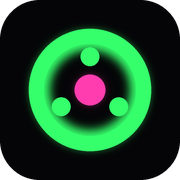
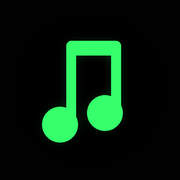
Add files via upload

diff --git a/index.html b/index.html
@@ -537,6 +537,23 @@
 
   /* ---------- neon accents ---------- */
   .brand h1 .dot{box-shadow:0 0 14px 2px var(--amber);}
+  /* Install-status badge (v3.7.8): a quiet, always-visible confirmation of
+     whether the running instance can actually get the background-audio
+     treatment an installed app gets, rather than that being invisible
+     until someone goes digging in the debug log. */
+  .install-badge{
+    width:34px;height:34px;border-radius:50%;flex:0 0 auto;
+    display:flex;align-items:center;justify-content:center;
+  }
+  .install-badge svg{width:20px;height:20px;}
+  .install-badge.ok{
+    color:var(--ok);background:rgba(87,245,160,.14);
+    box-shadow:0 0 12px 1px rgba(87,245,160,.45);
+  }
+  .install-badge.bad{
+    color:var(--danger);background:rgba(255,92,122,.14);
+    box-shadow:0 0 12px 1px rgba(255,92,122,.45);
+  }
   nav button.active svg{filter:drop-shadow(0 0 7px rgba(var(--accent-rgb),.7));}
   .seek-fill{box-shadow:0 0 10px rgba(var(--accent-rgb),.6);}
   .mini-prog span{box-shadow:0 0 8px rgba(var(--accent-rgb),.6);}
@@ -628,6 +645,8 @@
   @media (orientation:landscape) and (max-height:900px) and (max-aspect-ratio: 3/2){
     header{padding:10px 20px 8px;gap:10px;}
     .brand h1{font-size:28px;}
+    .install-badge{width:24px;height:24px;}
+    .install-badge svg{width:15px;height:15px;}
     .icon-btn{width:46px;height:46px;}
     .icon-btn svg{width:22px;height:22px;}
     .search{height:48px;}
@@ -900,7 +919,7 @@
 <div id="app">
   <header>
     <div class="brand">
-      <h1><span class="dot"></span>Reel</h1>
+      <h1><span class="dot"></span>Reel<span class="install-badge" id="installBadge" title=""></span></h1>
       <div class="hdr-actions">
         <button class="icon-btn" id="btnSettings" title="Settings" aria-label="Settings">
           <svg viewBox="0 0 24 24" fill="none" stroke="currentColor" stroke-width="2" stroke-linecap="round" stroke-linejoin="round"><circle cx="12" cy="12" r="3"/><path d="M19.4 15a1.65 1.65 0 0 0 .33 1.82l.06.06a2 2 0 1 1-2.83 2.83l-.06-.06a1.65 1.65 0 0 0-1.82-.33 1.65 1.65 0 0 0-1 1.51V21a2 2 0 0 1-4 0v-.09A1.65 1.65 0 0 0 9 19.4a1.65 1.65 0 0 0-1.82.33l-.06.06a2 2 0 1 1-2.83-2.83l.06-.06a1.65 1.65 0 0 0 .33-1.82 1.65 1.65 0 0 0-1.51-1H3a2 2 0 0 1 0-4h.09A1.65 1.65 0 0 0 4.6 9a1.65 1.65 0 0 0-.33-1.82l-.06-.06a2 2 0 1 1 2.83-2.83l.06.06a1.65 1.65 0 0 0 1.82.33H9a1.65 1.65 0 0 0 1-1.51V3a2 2 0 0 1 4 0v.09a1.65 1.65 0 0 0 1 1.51 1.65 1.65 0 0 0 1.82-.33l.06-.06a2 2 0 1 1 2.83 2.83l-.06.06a1.65 1.65 0 0 0-.33 1.82V9a1.65 1.65 0 0 0 1.51 1H21a2 2 0 0 1 0 4h-.09a1.65 1.65 0 0 0-1.51 1z"/></svg>
@@ -1350,8 +1369,15 @@ const state = {
   routeDiag: false,         // when true, measure AudioContext.outputLatency to detect real route changes
 };
 /* app metadata + changelog (newest first) */
-const APP_VERSION = '3.7.7';
+const APP_VERSION = '3.7.8';
 const CHANGELOG = [
+  { v:'3.7.8', date:'Sep 15, 2026', items:[
+    'Found why installing kept falling back to a shortcut: Chrome\u2019s menu says "Install and create shortcut" \u2192 "Install app" specifically when it CANNOT build a real installed app (a WebAPK) and is falling back to a bookmark that still runs as a plain browser tab \u2014 when Chrome can build a real one, the option just says "Install", with no "shortcut" wording at all. Loading the app via GitHub\u2019s raw file viewer doesn\u2019t serve the manifest/icons/service-worker at reachable paths, so Chrome\u2019s installability check was always failing and silently taking the fallback path. This isn\u2019t fixable from inside the HTML file \u2014 it requires actually serving the app from real web hosting (e.g. GitHub Pages) with all five files (index.html, manifest.json, sw.js, icon-192.png, icon-512.png) alongside each other.',
+    'New: a status badge next to the "Reel" title \u2014 a green check when running installed as a real app, a red X when running as a plain browser tab. This used to only be visible by digging into the debug log after the fact; now it\u2019s always on screen, since whether background audio can work at all hinges entirely on this one fact.',
+    'New: real icon-192.png and icon-512.png, matching the app\u2019s own neon-green music-note motif used throughout the UI. Their absence was one of the concrete reasons the installability check couldn\u2019t pass before.',
+    'Log buffer reduced back to 500 entries (from 2500). The larger buffer was sized for the fully-instrumented, repeatedly-backgrounded sessions used to hunt the root cause; that cause is confirmed now, so ordinary use doesn\u2019t need that much headroom.',
+    'Internal: display-mode detection (installed vs. browser tab) now lives in exactly one function, read by both the debug-log line and the new header badge, rather than two separate implementations that could quietly drift apart \u2014 the same class of bug the log Copy button had in v3.7.7.',
+  ]},
   { v:'3.7.7', date:'Sep 14, 2026', items:[
     'Fixed Copy and Save producing a different log than the one on screen. They were built from a separate, independently-written function (Log.text()) that walked entries oldest-first with a full date on every line, while the screen shows newest-first with the date only in a separator \u2014 same entries, two unrelated presentations. Copy and Save now render from the exact same ordering/grouping function the screen uses, so there is no longer a second implementation that can drift out of sync with the first.',
     'The one deliberate addition beyond a literal screen copy: WARN/ERROR lines are distinguished on screen only by text colour, which a plain-text copy can\u2019t carry \u2014 so the level is spelled out on each line in the copied/saved text instead of silently losing that signal the moment it leaves the app.',
@@ -1747,11 +1773,12 @@ const DB = (() => {
         slips through uncaught.
 ============================================================================ */
 const Log = (()=>{
-  // Raised from 800 in v3.7.5: the background/lifecycle forensics below and
-  // the verbose event trace produce far more lines, and a session where the
-  // app is repeatedly backgrounded is exactly the one that must not have its
-  // oldest evidence rolled out of the buffer before it can be read.
-  const MAX = 2500;
+  // v3.7.8: reduced back down from 2500. The 2500 ceiling was sized for the
+  // fully-instrumented, repeatedly-backgrounded sessions used while hunting
+  // the root cause; that's confirmed now (Android suspending a non-installed
+  // tab's audio in the background), so the buffer no longer needs to be
+  // that generous for ordinary use.
+  const MAX = 500;
   let buf = [];
   let saveTimer = null;
   function push(level, msg){
@@ -4139,19 +4166,67 @@ function wireLifecycleForensics(){
    ordinary Chrome tab and gets Chrome's full background throttling; a properly
    installed PWA (WebAPK) gets meaningfully more lenient treatment. This has
    been a suspected factor in the background-pausing reports since v3.6.0, and
-   until now there was no way to confirm which mode was actually in use. */
-function logInstallContext(){
-  let mode = 'browser tab (NOT installed as an app)';
+   until now there was no way to confirm which mode was actually in use.
+
+   v3.7.8: this used to be the only place display mode was computed. Now the
+   header badge needs the same answer, so the detection itself lives in ONE
+   function (detectDisplayMode) and both the log line and the badge just
+   read its result — deliberately not two independent implementations that
+   could quietly drift apart, which is exactly what happened to the log
+   Copy button in v3.7.7. */
+function detectDisplayMode(){
   try{
-    if(window.matchMedia('(display-mode: standalone)').matches) mode = 'standalone (installed as a real app \u2014 good)';
-    else if(window.matchMedia('(display-mode: fullscreen)').matches) mode = 'fullscreen (installed)';
-    else if(window.matchMedia('(display-mode: minimal-ui)').matches) mode = 'minimal-ui (installed)';
-    else if(window.navigator.standalone) mode = 'standalone (iOS-style)';
+    if(window.matchMedia('(display-mode: standalone)').matches) return 'standalone';
+    if(window.matchMedia('(display-mode: fullscreen)').matches) return 'fullscreen';
+    if(window.matchMedia('(display-mode: minimal-ui)').matches) return 'minimal-ui';
+    if(window.navigator.standalone) return 'standalone';
   }catch(e){}
-  Log.info('Display mode: '+mode);
-  if(mode.indexOf('NOT installed') !== -1){
+  return 'browser';
+}
+function isInstalledDisplayMode(mode){ return mode==='standalone' || mode==='fullscreen' || mode==='minimal-ui'; }
+const DISPLAY_MODE_LOG_LABELS = {
+  standalone: 'standalone (installed as a real app \u2014 good)',
+  fullscreen: 'fullscreen (installed)',
+  'minimal-ui': 'minimal-ui (installed)',
+  browser: 'browser tab (NOT installed as an app)',
+};
+function logInstallContext(){
+  const mode = detectDisplayMode();
+  Log.info('Display mode: '+(DISPLAY_MODE_LOG_LABELS[mode]||mode));
+  if(!isInstalledDisplayMode(mode)){
     Log.warn('IMPORTANT: Reel is running as a plain browser tab, not an installed app. Android applies Chrome\u2019s own background throttling in this mode, which is a known cause of playback being suspended in the background. Re-add it to the home screen using Chrome\u2019s "Install" option (not "Create shortcut") and disable battery optimisation for it.');
   }
+}
+/* The header badge: a green check when running installed/standalone, a red
+   X when running as a plain browser tab. Deliberately always visible, not
+   tucked in Settings — whether background audio can work at all hinges on
+   this, so it shouldn't require opening the debug log to find out. */
+function updateInstallBadge(){
+  const el = $('installBadge');
+  if(!el) return;
+  const mode = detectDisplayMode();
+  if(isInstalledDisplayMode(mode)){
+    el.innerHTML = '<svg viewBox="0 0 24 24" fill="none" stroke="currentColor" stroke-width="3.2" stroke-linecap="round" stroke-linejoin="round"><polyline points="20 6 9 17 4 12"/></svg>';
+    el.className = 'install-badge ok';
+    el.title = 'Installed as an app \u2014 good. Background playback gets more lenient treatment from Android.';
+  }else{
+    el.innerHTML = '<svg viewBox="0 0 24 24" fill="none" stroke="currentColor" stroke-width="3.2" stroke-linecap="round" stroke-linejoin="round"><line x1="18" y1="6" x2="6" y2="18"/><line x1="6" y1="6" x2="18" y2="18"/></svg>';
+    el.className = 'install-badge bad';
+    el.title = 'Running as a browser tab, not installed. Android will throttle background playback \u2014 install via Chrome\u2019s "Install" option, not "Create shortcut".';
+  }
+}
+/* display-mode CAN change live (e.g. the tab that just installed the app
+   gets relaunched standalone) without a full reload of this page in some
+   flows, so this is wired as a real change listener rather than a
+   boot-only check. */
+function wireInstallBadge(){
+  updateInstallBadge();
+  try{
+    const mql = window.matchMedia('(display-mode: standalone)');
+    const onChange = ()=>{ updateInstallBadge(); logInstallContext(); };
+    if(mql.addEventListener) mql.addEventListener('change', onChange);
+    else if(mql.addListener) mql.addListener(onChange); // older WebView fallback
+  }catch(e){}
 }
 
 /* ============================================================================
@@ -6065,6 +6140,7 @@ async function boot(){
   Log.info('MediaSession API available: '+('mediaSession' in navigator)+' (lock screen controls need this to be true)');
   registerServiceWorker();
   logInstallContext();
+  wireInstallBadge();
   wireEventTrace();
   wireLifecycleForensics();
   recordHeartbeat();

diff --git a/sw.js b/sw.js
@@ -1,20 +1,16 @@
-/* Reel service worker — minimal app-shell cache.
- *
- * What this does: lets Chrome mint a real installed app (WebAPK)
- * instead of a bookmark shortcut, and lets the app shell itself
- * (index.html + manifest + icons) open with no network connection.
- *
- * What this does NOT do: cache your music. Songs are read live from
- * the folder you grant access to via the File System Access API,
- * which has nothing to do with this file or the network layer at all.
- *
- * Bump CACHE_NAME whenever manifest.json or the icon files change, so
- * returning visitors get the new versions instead of stale cached
- * ones. index.html itself doesn't need a cache bump to update — see
- * the network-first strategy below.
- */
+/* Reel service worker.
+   Two jobs:
+   1. An active service worker with a fetch handler is one of Chrome's
+      installability criteria for building a real WebAPK — without this
+      file, Chrome falls back to the "create shortcut" bookmark path
+      regardless of anything else being correct.
+   2. Since it's here anyway, it caches the static app shell (this page,
+      the manifest, the icons) so Reel can launch with zero network.
+   Reel's actual data — library, playlists, the debug log — all lives in
+   IndexedDB, completely separate from this cache. This never touches that.
+*/
 const CACHE_NAME = 'reel-shell-v1';
-const SHELL_FILES = [
+const SHELL_URLS = [
   './',
   './index.html',
   './manifest.json',
@@ -24,60 +20,47 @@ const SHELL_FILES = [
 ];
 
 self.addEventListener('install', (event) => {
+  self.skipWaiting();
   event.waitUntil(
-    caches.open(CACHE_NAME)
-      .then((cache) => cache.addAll(SHELL_FILES))
-      .then(() => self.skipWaiting())
+    caches.open(CACHE_NAME).then((cache) =>
+      // addAll fails the whole install if even one URL 404s (e.g. this repo
+      // doesn't happen to have apple-touch-icon.png at that exact path) —
+      // add each one independently so a single missing optional file can't
+      // block the shell from being cached at all.
+      Promise.all(SHELL_URLS.map((url) => cache.add(url).catch(() => {})))
+    )
   );
 });
 
 self.addEventListener('activate', (event) => {
   event.waitUntil(
     caches.keys()
-      .then((names) => Promise.all(
-        names.filter((n) => n !== CACHE_NAME).map((n) => caches.delete(n))
-      ))
+      .then((names) => Promise.all(names.filter((n) => n !== CACHE_NAME).map((n) => caches.delete(n))))
       .then(() => self.clients.claim())
   );
 });
 
+// Stale-while-revalidate: answer instantly from cache if we have it (so the
+// app is launchable with no network at all, matching Reel's fully-offline
+// design), then quietly refresh the cache from the network in the
+// background so the next launch picks up anything new.
 self.addEventListener('fetch', (event) => {
-  const req = event.request;
-  if (req.method !== 'GET') return; // never intercept anything else
+  if (event.request.method !== 'GET') return;
+  const url = new URL(event.request.url);
+  if (url.origin !== self.location.origin) return; // never intercept cross-origin requests
 
-  // Full-page navigations (launching/reloading the app): try the network
-  // first so an online user always gets the latest index.html — this
-  // project ships updates often, and a stale cached shell would be
-  // confusing. Only fall back to the cached copy when genuinely offline.
-  if (req.mode === 'navigate') {
-    event.respondWith(
-      fetch(req)
-        .then((res) => {
-          const copy = res.clone();
-          caches.open(CACHE_NAME).then((cache) => cache.put('./index.html', copy));
-          return res;
-        })
-        .catch(() => caches.match('./index.html').then((r) => r || caches.match(req)))
-    );
-    return;
-  }
-
-  // Everything else in the shell (manifest, icons): cache-first, since
-  // these change rarely — instant load, no network round-trip. Falls
-  // back to network (and populates the cache) on a cache miss, so a
-  // first-ever visit still works even if install() raced a slow link.
   event.respondWith(
-    caches.match(req).then((cached) => {
-      if (cached) return cached;
-      return fetch(req)
-        .then((res) => {
-          if (res && res.ok) {
-            const copy = res.clone();
-            caches.open(CACHE_NAME).then((cache) => cache.put(req, copy));
+    caches.match(event.request).then((cached) => {
+      const network = fetch(event.request)
+        .then((response) => {
+          if (response && response.ok) {
+            const copy = response.clone();
+            caches.open(CACHE_NAME).then((cache) => cache.put(event.request, copy));
           }
-          return res;
+          return response;
         })
         .catch(() => cached);
+      return cached || network;
     })
   );
 });
